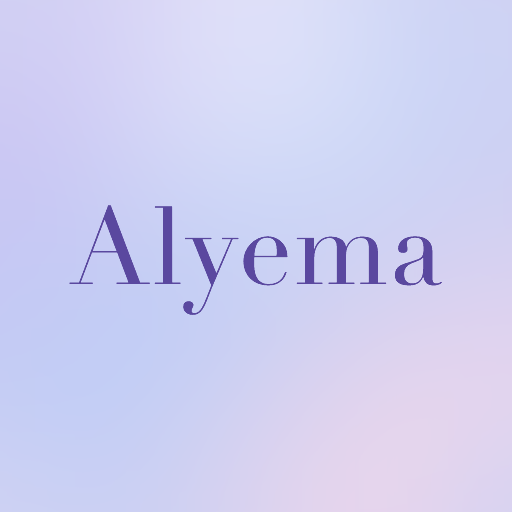
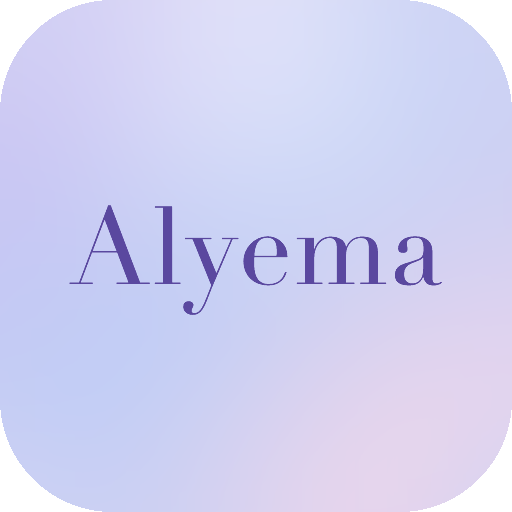
feat: update workspace

diff --git a/index.html b/index.html
@@ -11,8 +11,8 @@
   <meta name="description" content="Alyema helps you relax and focus with AI-guided visualization, calming ambient audio, mood boards, daily affirmations and gentle voice guidance.">
   <link rel="manifest" href="manifest.json">
   <meta name="theme-color" content="#120022">
-  <link rel="apple-touch-icon" href="icons/apple-touch-icon.png?v=20261027iconB">
-  <link rel="icon" type="image/png" href="icons/icon-192.png?v=20261027iconB">
+  <link rel="apple-touch-icon" href="icons/apple-touch-icon.png?v=20261027iconC">
+  <link rel="icon" type="image/png" href="icons/icon-192.png?v=20261027iconC">
   <meta name="apple-mobile-web-app-capable" content="yes">
   <meta name="apple-mobile-web-app-title" content="Alyema">
   <meta name="mobile-web-app-capable" content="yes">

diff --git a/public/index.html b/public/index.html
@@ -11,8 +11,8 @@
   <meta name="description" content="Alyema helps you relax and focus with AI-guided visualization, calming ambient audio, mood boards, daily affirmations and gentle voice guidance.">
   <link rel="manifest" href="manifest.json">
   <meta name="theme-color" content="#120022">
-  <link rel="apple-touch-icon" href="icons/apple-touch-icon.png?v=20261027iconB">
-  <link rel="icon" type="image/png" href="icons/icon-192.png?v=20261027iconB">
+  <link rel="apple-touch-icon" href="icons/apple-touch-icon.png?v=20261027iconC">
+  <link rel="icon" type="image/png" href="icons/icon-192.png?v=20261027iconC">
   <meta name="apple-mobile-web-app-capable" content="yes">
   <meta name="apple-mobile-web-app-title" content="Alyema">
   <meta name="mobile-web-app-capable" content="yes">
